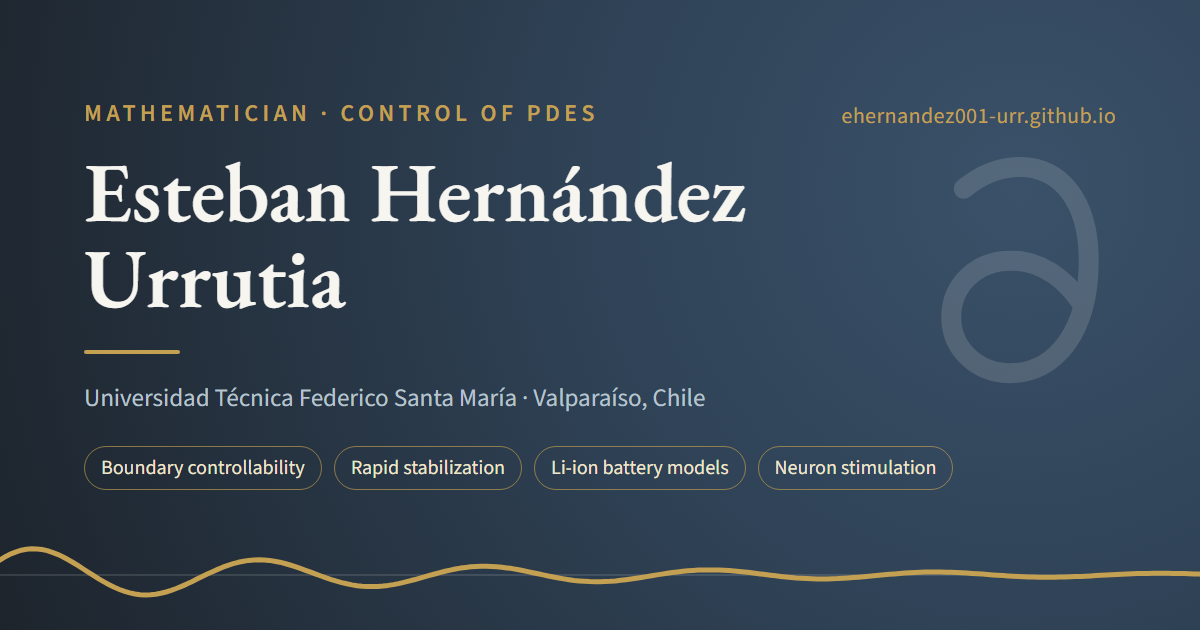
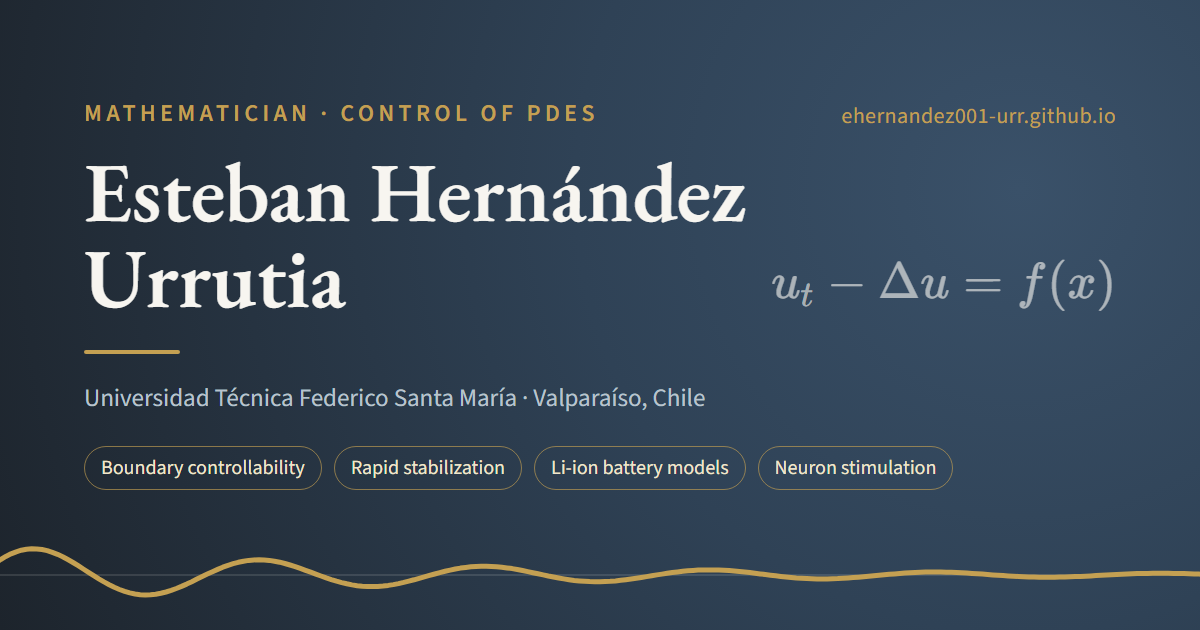
OG image: replace the partial-derivative watermark with the heat equation (KaTeX)

Changed region(s): [[0.7092, 0.2413, 0.925, 0.6032], [0.6475, 0.4222, 0.6783, 0.4825]]

diff --git a/scripts/og-image.html b/scripts/og-image.html
@@ -1,4 +1,6 @@
 <!doctype html><html><head><meta charset="utf-8">
+<link rel="stylesheet" href="https://cdn.jsdelivr.net/npm/katex@0.16.11/dist/katex.min.css">
+<script src="https://cdn.jsdelivr.net/npm/katex@0.16.11/dist/katex.min.js"></script>
 <link rel="stylesheet" href="https://fonts.googleapis.com/css2?family=EB+Garamond:wght@500;600&family=Source+Sans+3:wght@400;600&display=block">
 <style>
 html,body{margin:0;width:1200px;height:630px;overflow:hidden}
@@ -13,9 +15,9 @@ h1{font-family:"EB Garamond",serif;font-weight:600;font-size:84px;line-height:1.
 .pills{display:flex;gap:12px;flex-wrap:nowrap;margin-top:30px}
 .pills span{font-size:20px;padding:7px 16px;border:1.5px solid rgba(196,160,82,.65);border-radius:999px;color:#f0e6cc}
 .url{position:absolute;right:84px;top:100px;font-size:22px;color:#c4a052;letter-spacing:.02em}
+.eq{position:absolute;right:84px;top:252px;font-size:42px;color:rgba(247,245,240,.62)}
 </style></head><body><div class="card">
 <svg class="bg" width="1200" height="630" viewBox="0 0 1200 630">
-<g transform="translate(870 120) scale(12.5)" opacity=".9"><path fill="none" stroke="#f7f5f0" stroke-opacity=".16" stroke-linecap="round" stroke-linejoin="round" stroke-width="1.6" d="M7.5 5.5c1.5-1.25 3-1.75 4.5-1.75c3.25 0 5.5 2.75 5.5 7.5c0 5.75-2.75 9-6.25 9c-2.75 0-4.75-2-4.75-4.5s2-4.5 4.75-4.5c2.25 0 4.25 1.25 5.75 3.5"/></g>
 <path d="M0 575H1200" stroke="#f7f5f0" stroke-opacity=".12" stroke-width="2"/>
 <path fill="none" stroke="#c4a052" stroke-width="5" stroke-linecap="round" stroke-linejoin="round" d="M-20.0 575.0 L-14.8 570.7 L-9.7 566.7 L-4.5 562.9 L0.7 559.5 L5.8 556.4 L11.0 553.8 L16.2 551.8 L21.3 550.2 L26.5 549.2 L31.7 548.8 L36.8 548.9 L42.0 549.5 L47.2 550.6 L52.3 552.3 L57.5 554.3 L62.7 556.7 L67.8 559.5 L73.0 562.5 L78.2 565.7 L83.3 569.0 L88.5 572.3 L93.7 575.6 L98.8 578.8 L104.0 581.9 L109.2 584.7 L114.3 587.3 L119.5 589.5 L124.7 591.4 L129.8 592.9 L135.0 594.0 L140.2 594.7 L145.3 595.0 L150.5 594.8 L155.7 594.3 L160.8 593.3 L166.0 592.0 L171.2 590.4 L176.3 588.5 L181.5 586.4 L186.7 584.1 L191.8 581.7 L197.0 579.1 L202.2 576.6 L207.3 574.1 L212.5 571.7 L217.7 569.4 L222.8 567.2 L228.0 565.3 L233.2 563.7 L238.3 562.3 L243.5 561.2 L248.7 560.4 L253.8 559.9 L259.0 559.8 L264.2 559.9 L269.3 560.4 L274.5 561.2 L279.7 562.2 L284.8 563.5 L290.0 565.0 L295.2 566.6 L300.3 568.4 L305.5 570.3 L310.7 572.2 L315.8 574.1 L321.0 576.0 L326.2 577.9 L331.3 579.6 L336.5 581.2 L341.7 582.6 L346.8 583.8 L352.0 584.9 L357.2 585.7 L362.3 586.2 L367.5 586.5 L372.7 586.6 L377.8 586.4 L383.0 586.0 L388.2 585.4 L393.3 584.6 L398.5 583.6 L403.7 582.4 L408.8 581.1 L414.0 579.8 L419.2 578.3 L424.3 576.9 L429.5 575.4 L434.7 574.0 L439.8 572.6 L445.0 571.3 L450.2 570.1 L455.3 569.0 L460.5 568.1 L465.7 567.4 L470.8 566.8 L476.0 566.4 L481.2 566.2 L486.3 566.2 L491.5 566.4 L496.7 566.7 L501.8 567.2 L507.0 567.9 L512.2 568.6 L517.3 569.5 L522.5 570.5 L527.7 571.6 L532.8 572.7 L538.0 573.8 L543.2 574.9 L548.3 576.0 L553.5 577.0 L558.7 578.0 L563.8 578.9 L569.0 579.7 L574.2 580.4 L579.3 580.9 L584.5 581.3 L589.7 581.6 L594.8 581.7 L600.0 581.7 L605.2 581.5 L610.3 581.3 L615.5 580.9 L620.7 580.3 L625.8 579.7 L631.0 579.0 L636.2 578.3 L641.3 577.5 L646.5 576.6 L651.7 575.8 L656.8 574.9 L662.0 574.1 L667.2 573.3 L672.3 572.6 L677.5 571.9 L682.7 571.3 L687.8 570.8 L693.0 570.4 L698.2 570.1 L703.3 570.0 L708.5 569.9 L713.7 569.9 L718.8 570.1 L724.0 570.3 L729.2 570.6 L734.3 571.0 L739.5 571.5 L744.7 572.0 L749.8 572.6 L755.0 573.2 L760.2 573.9 L765.3 574.5 L770.5 575.2 L775.7 575.8 L780.8 576.4 L786.0 576.9 L791.2 577.4 L796.3 577.9 L801.5 578.2 L806.7 578.5 L811.8 578.7 L817.0 578.9 L822.2 578.9 L827.3 578.9 L832.5 578.7 L837.7 578.6 L842.8 578.3 L848.0 578.0 L853.2 577.6 L858.3 577.2 L863.5 576.7 L868.7 576.3 L873.8 575.8 L879.0 575.3 L884.2 574.8 L889.3 574.3 L894.5 573.9 L899.7 573.5 L904.8 573.1 L910.0 572.8 L915.2 572.5 L920.3 572.3 L925.5 572.1 L930.7 572.1 L935.8 572.0 L941.0 572.1 L946.2 572.2 L951.3 572.3 L956.5 572.5 L961.7 572.8 L966.8 573.1 L972.0 573.4 L977.2 573.7 L982.3 574.1 L987.5 574.5 L992.7 574.9 L997.8 575.2 L1003.0 575.6 L1008.2 575.9 L1013.3 576.2 L1018.5 576.5 L1023.7 576.7 L1028.8 576.9 L1034.0 577.1 L1039.2 577.2 L1044.3 577.2 L1049.5 577.3 L1054.7 577.2 L1059.8 577.1 L1065.0 577.0 L1070.2 576.8 L1075.3 576.6 L1080.5 576.4 L1085.7 576.2 L1090.8 575.9 L1096.0 575.6 L1101.2 575.3 L1106.3 575.1 L1111.5 574.8 L1116.7 574.5 L1121.8 574.3 L1127.0 574.0 L1132.2 573.8 L1137.3 573.6 L1142.5 573.5 L1147.7 573.4 L1152.8 573.3 L1158.0 573.3 L1163.2 573.3 L1168.3 573.3 L1173.5 573.4 L1178.7 573.5 L1183.8 573.6 L1189.0 573.8 L1194.2 574.0 L1199.3 574.1 L1204.5 574.4 L1209.7 574.6 L1214.8 574.8 L1220.0 575.0"/>
 </svg>
@@ -26,5 +28,8 @@ h1{font-family:"EB Garamond",serif;font-weight:600;font-size:84px;line-height:1.
 <div class="inst">Universidad Técnica Federico Santa María · Valparaíso, Chile</div>
 <div class="pills"><span>Boundary controllability</span><span>Rapid stabilization</span><span>Li-ion battery models</span><span>Neuron stimulation</span></div>
 </div>
+<div class="eq" id="eq"></div>
 <div class="url">ehernandez001-urr.github.io</div>
-</div></body></html>
+</div>
+<script>katex.render(String.raw`u_t-\Delta u=f(x)`,document.getElementById("eq"),{throwOnError:false});</script>
+</body></html>
